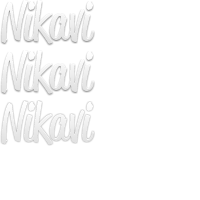
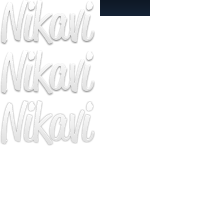
count

Changed region(s): [[0.48, 0.0, 0.75, 0.09]]

diff --git a/t/common/common.css b/t/common/common.css
@@ -39,6 +39,8 @@ body { background: #222f41 url(bg.png) center top; font-family: Arial, Tahoma, s
 #photo-set-list .item { margin: 0 30px 20px 0; }
 #photo-set-list .photo-set { display: block; position: relative; width: 280px; height: 212px; }
 #photo-set-list .photo-set .photo { display: block; width: 280px; height: 180px; border-radius: 2px; box-shadow: 0 1px 4px rgba(0,0,0,0.6), inset 0 0 1px rgba(200,200,200,0.4); }
+#photo-set-list .photo-set .count { display: block; position: absolute; right: 0; bottom: 0; height: 16px; padding: 0 9px; border-radius: 8px; font-size: 11px; line-height: 16px; color: #677282; background: url(common.png) 100px 0; box-shadow: 0 1px 0 rgba(255,255,255,0.06), inset 0 0 0 1px rgba(15,25,38,0.66) }
+
 
 #index-page #header .logo { cursor: default; }
 
